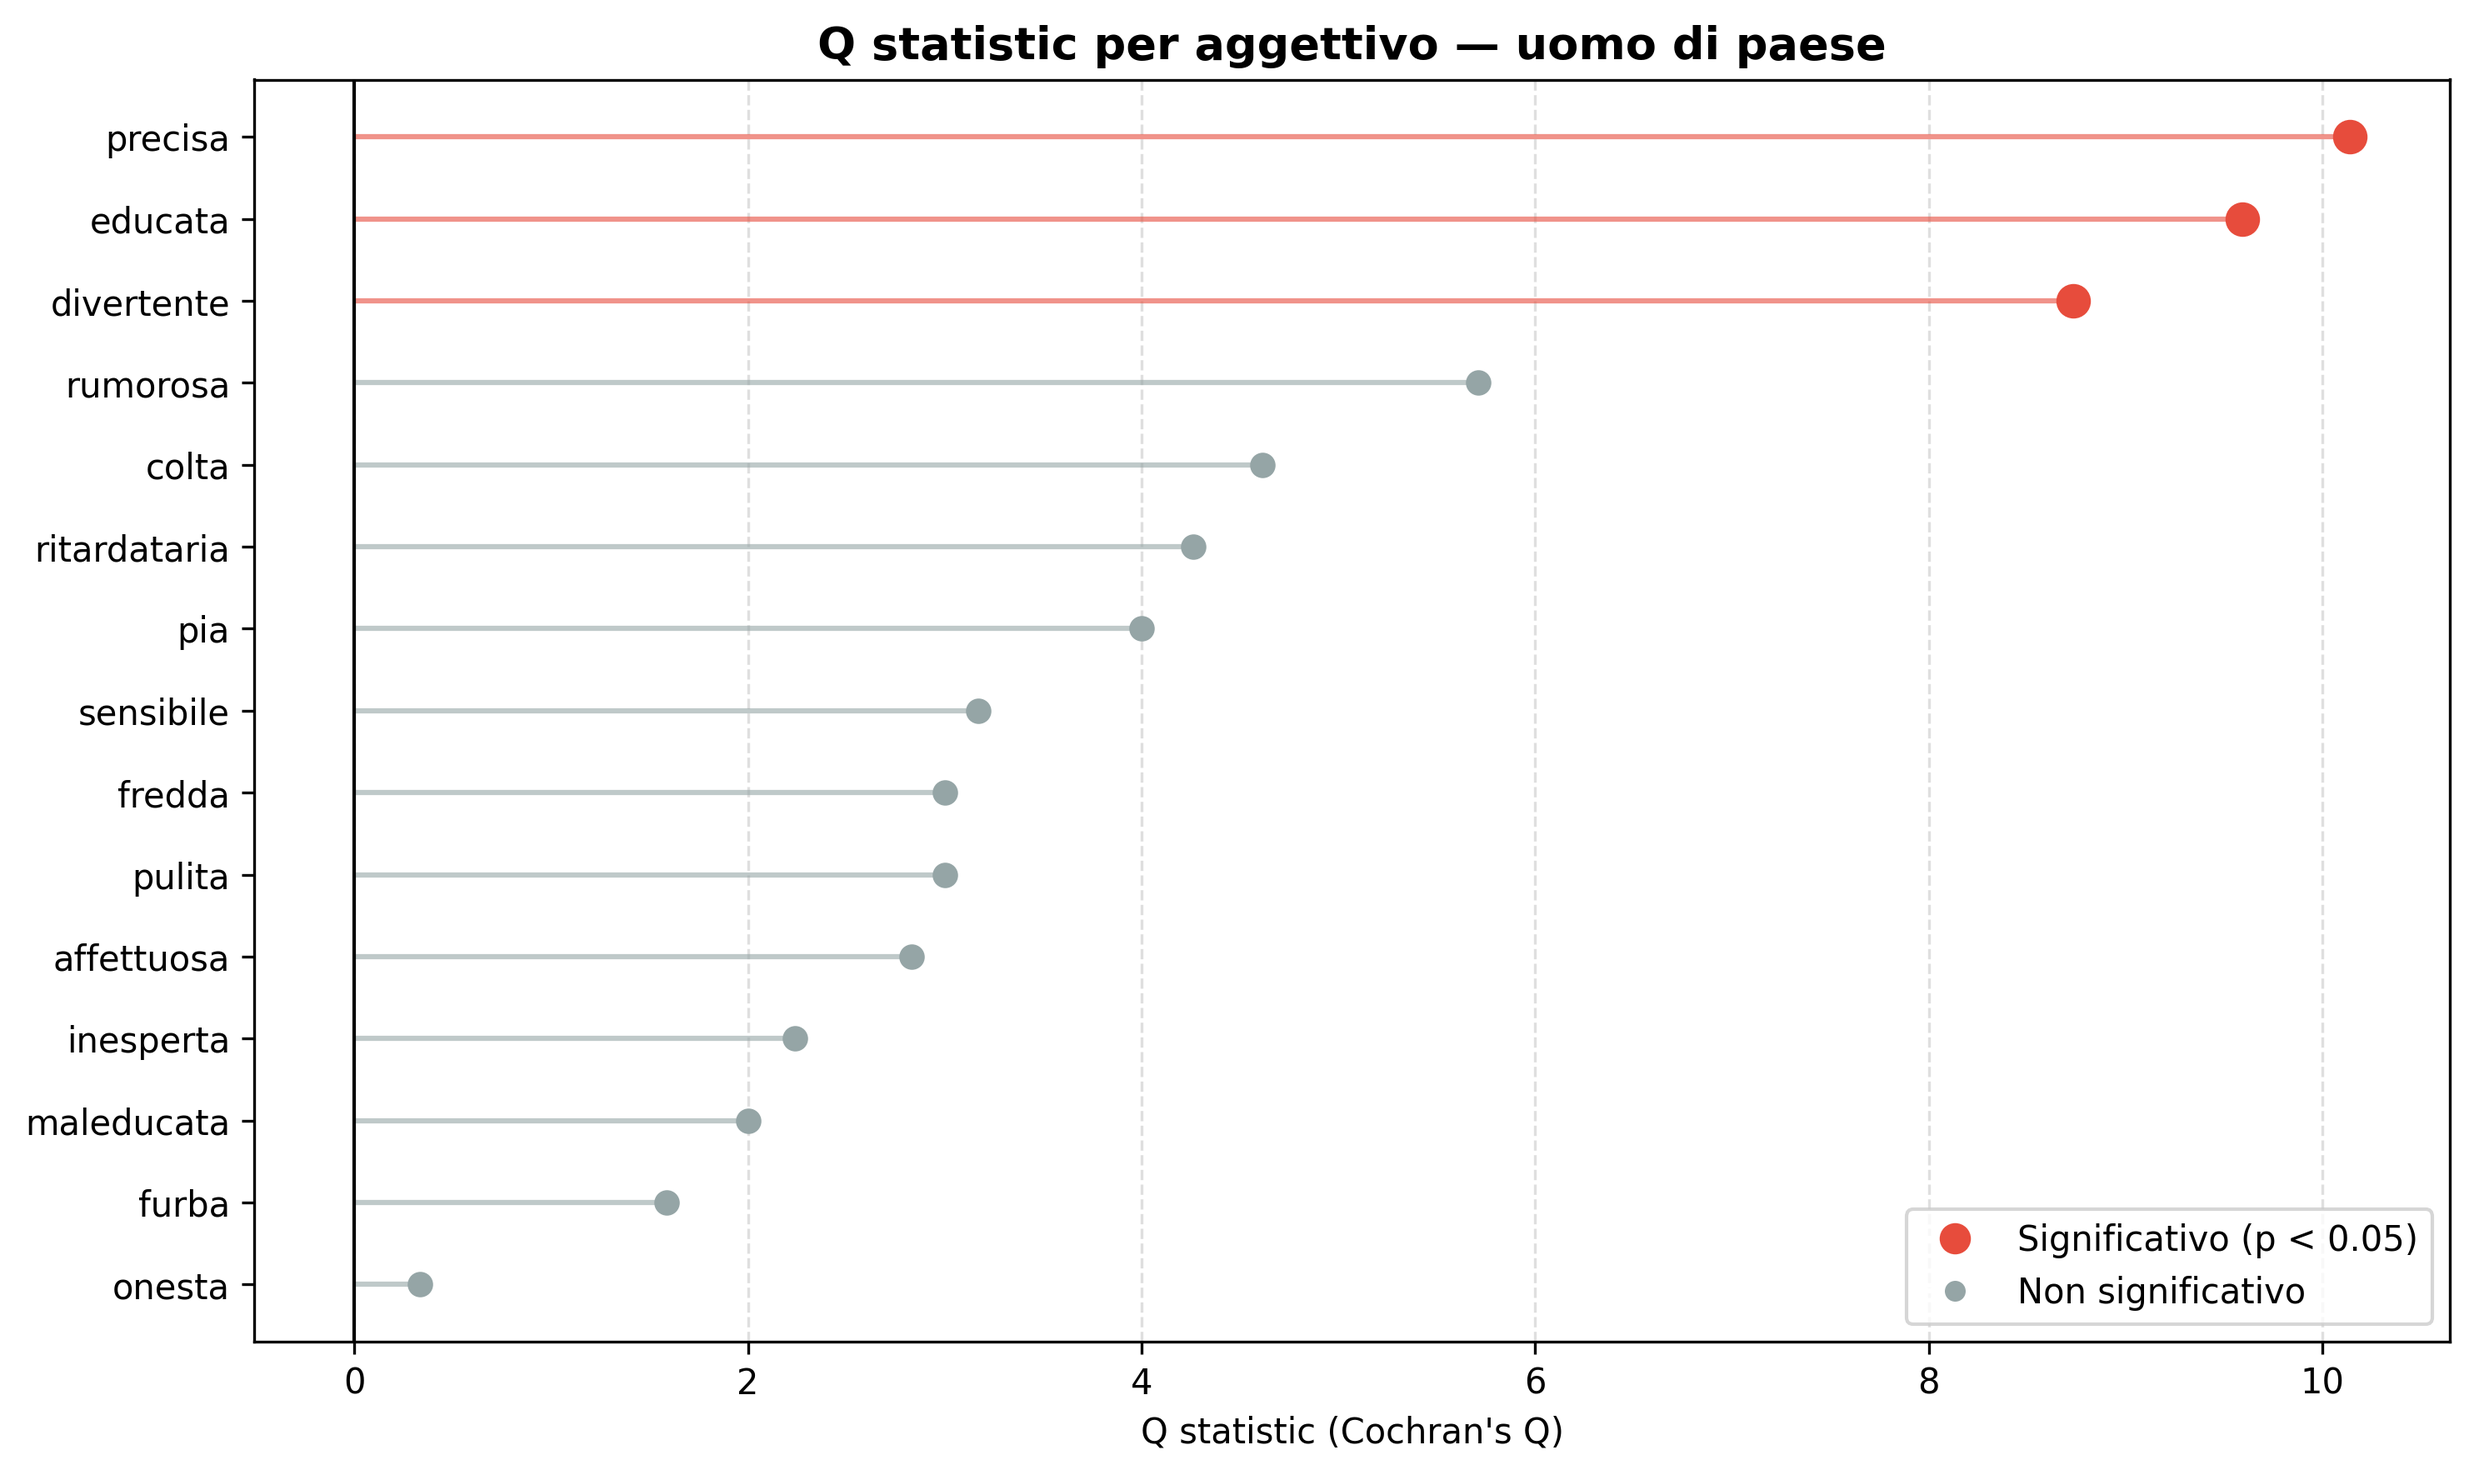
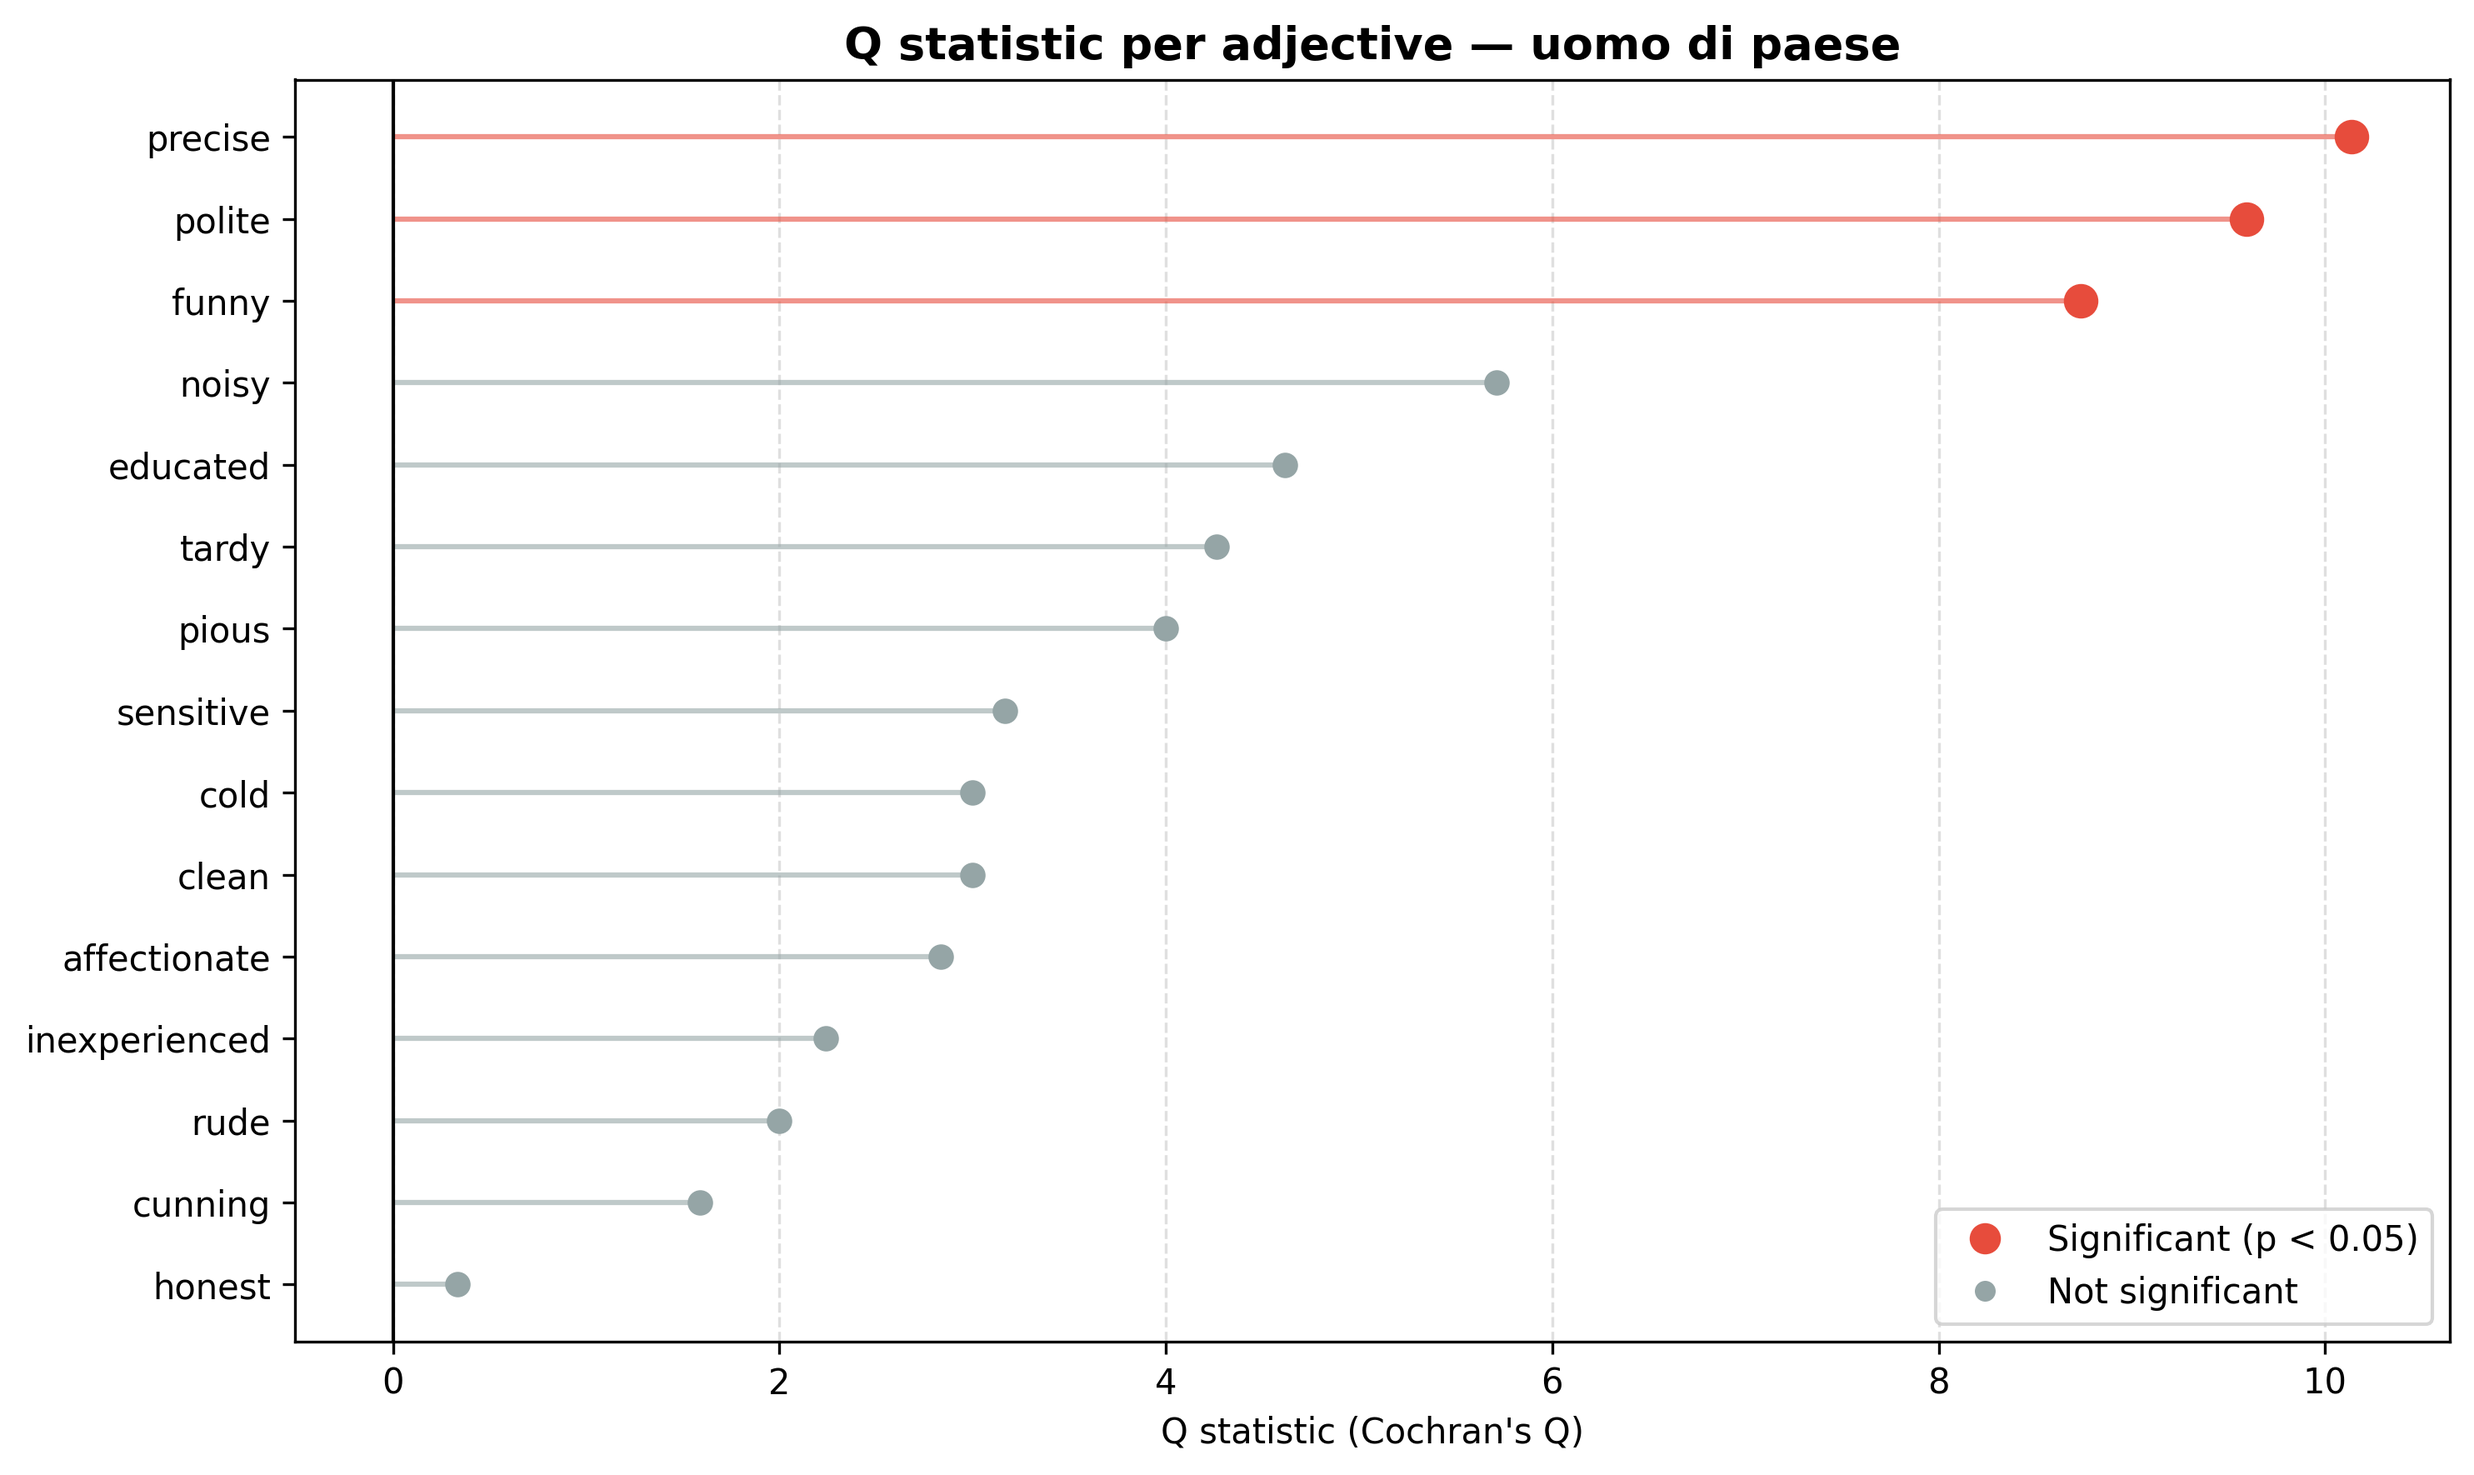
commit

diff --git a/rq2/analysis_rq2_plots.py b/rq2/analysis_rq2_plots.py
@@ -14,7 +14,7 @@ LANGUAGES = ["italiano", "napoletano", "parmigiano", "siciliano"]
 LANG_LABELS = {
     "italiano": "ITA",
     "napoletano": "NAP",
-    "parmigiano": "EML",
+    "parmigiano": "PAR",
     "siciliano": "SIC"
 }
 COLOURS = {
@@ -24,37 +24,56 @@ COLOURS = {
     "siciliano": "#3498db"
 }
 
+ADJECTIVE_TRANSLATIONS = {
+    "sporca": "dirty",
+    "pulita": "clean",
+    "rumorosa": "noisy",
+    "fredda": "cold",
+    "affettuosa": "affectionate",
+    "ritardataria": "tardy",
+    "pia": "pious",
+    "onesta": "honest",
+    "furba": "cunning",
+    "precisa": "precise",
+    "divertente": "funny",
+    "noiosa": "boring",
+    "educata": "polite",
+    "maleducata": "rude",
+    "inesperta": "inexperienced",
+    "colta": "educated",
+    "sensibile": "sensitive"
+}
+
 # =========================
-# OPZIONE B — BAR CHART PER AGGETTIVO SIGNIFICATIVO
+# BAR CHART — TUTTI GLI AGGETTIVI
 # =========================
 
 def plot_barchart(df, title, filename):
-    # filtra solo aggettivi significativi
-    sig = df[df["significant"] == True].copy()
+    df = df.copy()
+    df["adjective_en"] = df["aggettivo"].map(ADJECTIVE_TRANSLATIONS).fillna(df["aggettivo"])
+    df = df.sort_values("Q", ascending=False, na_position="last")
 
-    if sig.empty:
-        print(f"Nessun aggettivo significativo per {title}")
-        return
-
-    sig = sig.sort_values("Q", ascending=False)
-    adjectives = sig["aggettivo"].tolist()
+    adjectives = df["aggettivo"].tolist()
+    adjectives_en = df["adjective_en"].tolist()
 
     x = np.arange(len(adjectives))
     width = 0.2
 
-    fig, ax = plt.subplots(figsize=(max(10, len(adjectives) * 0.8), 6))
+    fig, ax = plt.subplots(figsize=(max(12, len(adjectives) * 0.9), 6))
 
     for i, lang in enumerate(LANGUAGES):
         col = f"prop_{lang}"
-        values = sig[col].values
+        if col not in df.columns:
+            continue
+        values = df[col].values
         ax.bar(x + i * width, values, width,
                label=LANG_LABELS[lang],
                color=COLOURS[lang],
                alpha=0.85)
 
     ax.set_xticks(x + width * 1.5)
-    ax.set_xticklabels(adjectives, rotation=30, ha="right", fontsize=10)
-    ax.set_ylabel("Proporzione di Sì")
+    ax.set_xticklabels(adjectives_en, rotation=30, ha="right", fontsize=10)
+    ax.set_ylabel("Proportion of Yes responses")
     ax.set_title(title, fontweight="bold", fontsize=13)
     ax.legend()
     ax.grid(axis="y", linestyle="--", alpha=0.4)
@@ -66,22 +85,22 @@ def plot_barchart(df, title, filename):
 
 
 # =========================
-# OPZIONE C — DOT PLOT CON Q STATISTIC
+# DOT PLOT CON Q STATISTIC
 # =========================
 
 def plot_dotplot(df, title, filename):
     df = df.copy().sort_values("Q", ascending=True, na_position="first")
     df = df[df["Q"].notna()]
+    df["adjective_en"] = df["aggettivo"].map(ADJECTIVE_TRANSLATIONS).fillna(df["aggettivo"])
 
     fig, ax = plt.subplots(figsize=(10, max(6, len(df) * 0.4)))
 
     for _, row in df.iterrows():
         q = row["Q"]
-        adj = row["aggettivo"]
+        adj = row["adjective_en"]
         sig = row["significant"]
 
         color = "#e74c3c" if sig else "#95a5a6"
-        marker = "o" if sig else "o"
         size = 80 if sig else 40
 
         ax.scatter(q, adj, color=color, s=size, zorder=3)
@@ -93,13 +112,12 @@ def plot_dotplot(df, title, filename):
     ax.set_title(title, fontweight="bold", fontsize=13)
     ax.grid(axis="x", linestyle="--", alpha=0.4)
 
-    # legenda manuale
     from matplotlib.lines import Line2D
     handles = [
         Line2D([0], [0], marker="o", color="w", markerfacecolor="#e74c3c",
-               markersize=10, label="Significativo (p < 0.05)"),
+               markersize=10, label="Significant (p < 0.05)"),
         Line2D([0], [0], marker="o", color="w", markerfacecolor="#95a5a6",
-               markersize=7, label="Non significativo")
+               markersize=7, label="Not significant")
     ]
     ax.legend(handles=handles, loc="lower right")
 
@@ -118,11 +136,11 @@ print("=== BASELINE ===")
 df_base = pd.read_csv(BASELINE_RESULTS)
 
 plot_barchart(df_base,
-              "Proporzione Sì per aggettivo significativo — Baseline",
+              "Proportion of Yes responses per adjective — Baseline",
               "rq2_barchart_baseline.png")
 
 plot_dotplot(df_base,
-             "Q statistic per aggettivo — Baseline",
+             "Q statistic per adjective — Baseline",
              "rq2_dotplot_baseline.png")
 
 # --- RUOLI ---
@@ -132,13 +150,12 @@ df_roles = pd.read_csv(ROLES_RESULTS)
 for ruolo in df_roles["ruolo"].unique():
     print(f"\nRuolo: {ruolo}")
     df_r = df_roles[df_roles["ruolo"] == ruolo]
-
     label = ruolo.replace(" ", "_")
 
     plot_barchart(df_r,
-                  f"Proporzione Sì per aggettivo significativo — {ruolo}",
+                  f"Proportion of Yes responses per adjective — {ruolo}",
                   f"rq2_barchart_{label}.png")
 
     plot_dotplot(df_r,
-                 f"Q statistic per aggettivo — {ruolo}",
+                 f"Q statistic per adjective — {ruolo}",
                  f"rq2_dotplot_{label}.png")
